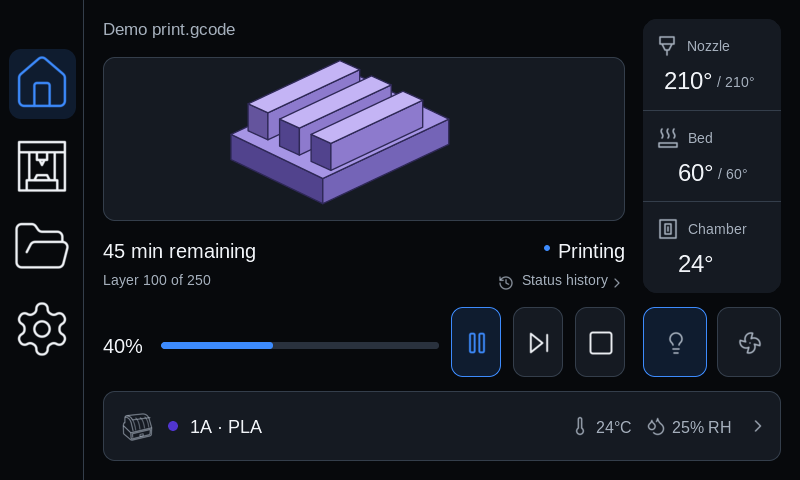
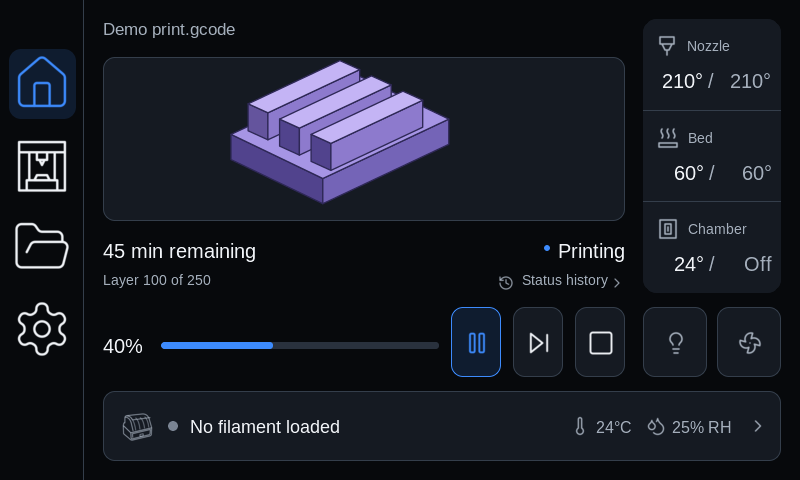
Align home temperatures and distinguish filament feeding state

diff --git a/touchscreen/src/views.c b/touchscreen/src/views.c
@@ -107,6 +107,16 @@ static void spool_widget(lv_obj_t *parent, int x, int y, int size, const char *h
     lv_obj_set_style_border_width(inner, 2, 0);
     lv_obj_set_style_border_color(inner, ring, 0);
 }
+/* The extruder sensor confirms the path; spool presence is a separate state.
+ * An old active_slot after unloading must never imply filament in the nozzle. */
+static bool feeding_slot(const char *slot) {
+    if (!B("status.filament_switch_sensor filament_sensor.filament_detected"))
+        return false;
+    const char *active = S("status.k2_cfs.active_slot");
+    if (!strcmp(slot, "E"))
+        return !*active || !fitted();
+    return fitted() && B("status.k2_cfs.online") && !strcmp(slot, active);
+}
 static bool known_slot(cJSON *rec) {
     const char *slot = jstr(rec, "slot", "");
     const char *hex = jstr(rec, "color", "");
@@ -190,12 +200,13 @@ void view_home(void) {
         lv_obj_set_style_border_side(tile, LV_BORDER_SIDE_TOP, 0);
         icon(tile, i == 0 ? "nozzle" : i == 1 ? "bed" : "chamber", 12, 15, 24, colour("a4aebb"));
         text(tile, jstr(heater, "label", ""), 44, 17, 82, &font_ui_14, true);
-        app.current[i] = text(tile, "", 12, 45, 58, &font_ui_24, false);
+        app.current[i] = text(tile, "", 8, 48, 52, &font_ui_20, false);
         right(app.current[i]);
-        app.target[i] = text(tile, "", 74, 53, 52, &font_ui_14, true);
+        centered(text(tile, "/", 62, 48, 12, &font_ui_20, true));
+        app.target[i] = text(tile, "", 78, 48, 50, &font_ui_20, true);
+        right(app.target[i]);
     }
-    lv_obj_t *light = button(app.content, "", 540, 307, 64, 70, "{\"action\":\"light\"}",
-                             B("status.output_pin chamber_led.value"));
+    lv_obj_t *light = button(app.content, "", 540, 307, 64, 70, "{\"action\":\"light\"}", false);
     const char *light_path =
         S(B("status.output_pin chamber_led.value") ? "platform.icons.light_on"
                                                    : "platform.icons.light_off");
@@ -212,10 +223,11 @@ void view_home(void) {
     if (fitted()) {
         lv_obj_t *strip = button(app.content, "", 0, 391, 678, 70, "home_filament_strip", false);
         const char *active = S("status.k2_cfs.active_slot");
+        if (!feeding_slot(active))
+            active = "";
         cJSON *rec = slot_record(*active ? active : "E");
         char label[150];
-        bool external =
-            !*active && B("status.filament_switch_sensor filament_sensor.filament_detected");
+        bool external = feeding_slot("E");
         const char *name = *active    ? slot_label(active)
                            : external ? "Spool holder"
                                       : "No filament loaded";
@@ -281,7 +293,7 @@ void views_refresh(void) {
                              !strcmp(jstr(heater, "key", ""), "chamber") ? "No target set"
                                                                          : "Heater off");
             } else
-                snprintf(value, sizeof(value), target ? "/ %.0f°" : "", target);
+                snprintf(value, sizeof(value), target ? "%.0f°" : "Off", target);
             lv_label_set_text(app.target[i], value);
         }
         if (app.positions[i]) {
@@ -528,7 +540,8 @@ static void fans_view(void) {
 }
 static void filament_view(void) {
     ui_tabs(false, "filament");
-    if (ui_unavailable("Filament controls", "loading, retracting or editing filament"))
+    if ((!app.connected || strcmp(S("status.webhooks.state"), "ready")) &&
+        ui_unavailable("Filament controls", "loading, retracting or editing filament"))
         return;
     if (fitted() && !B("status.k2_cfs.online")) {
         center_message("CFS connection lost",
@@ -548,6 +561,8 @@ static void filament_view(void) {
         text(tile, name, start + 90, 93, metrics.x + 2, &font_ui_24, false);
         centered(text(tile, "Spool holder", start + 90, 135, metrics.x + 2, &font_ui_14, true));
         icon(tile, "chevron-right", start + group_width - 16, 115, 16, colour("a4aebb"));
+        if (feeding_slot("E"))
+            icon(tile, "nozzle", (673 - 24) / 2, 200, 24, colour("f0f3f7"));
         lv_obj_t *line = box(app.content, 0, 388, 678, 1, false);
         lv_obj_set_style_radius(line, 0, 0);
         lv_obj_set_style_bg_color(line, colour("343e4b"), 0);
@@ -620,7 +635,7 @@ static void filament_view(void) {
         snprintf(display_slot, sizeof(display_slot), "%s",
                  !strcmp(slot, "E") ? "Spool holder" : slot_label(slot));
         centered(text(tile, display_slot, 4, 15, width - 8, &font_ui_17, false));
-        bool present = !strcmp(slot, "E") || jbool(r, "loaded", false);
+        bool present = !strcmp(slot, "E") ? feeding_slot("E") : jbool(r, "loaded", false);
         const char *hex = present ? jstr(r, "color", "828b98") : "343e4b";
         lv_color_t ring = colour(hex);
         if (ring.ch.red < 25 && ring.ch.green < 25 && ring.ch.blue < 25)
@@ -644,6 +659,8 @@ static void filament_view(void) {
                       : present            ? "Unknown"
                                            : "Empty",
                       4, 126, width - 8, &font_ui_16, false));
+        if (feeding_slot(slot))
+            icon(tile, "nozzle", (width - 24) / 2, 165, 24, colour("f0f3f7"));
     }
 
     if (fitted()) {

diff --git a/touchscreen/tests/test_home_filament_state.py b/touchscreen/tests/test_home_filament_state.py
@@ -1,0 +1,70 @@
+"""Render real widgets to distinguish filament presence, selection and targets."""
+
+import copy
+import unittest
+
+import action_policy
+import test_native_ui
+from PIL import Image, ImageChops
+
+
+class HomeFilamentStateTests(unittest.TestCase):
+    setUp = test_native_ui.NativeUI.setUp
+    render = test_native_ui.NativeUI.render
+
+    def frame(self, page, data):
+        self.render(page, data=data)
+        return Image.open(self.path / "screen.ppm").copy()
+
+    def test_nozzle_marker_follows_sensor_not_selected_spool(self):
+        loaded = copy.deepcopy(self.data)
+        loaded["status"]["k2_cfs"]["active_slot"] = "D"
+        empty = copy.deepcopy(loaded)
+        empty["status"]["filament_switch_sensor filament_sensor"][
+            "filament_detected"
+        ] = False
+        before = self.frame("filament", empty)
+        after = self.frame("filament", loaded)
+        # D feeds the nozzle even when a different spool is selected for editing.
+        self.assertIsNotNone(
+            ImageChops.difference(before, after).crop((497, 278, 617, 308)).getbbox()
+        )
+        self.assertIsNone(
+            ImageChops.difference(before, after).crop((104, 278, 224, 308)).getbbox()
+        )
+
+    def test_filament_overview_remains_visible_during_print(self):
+        data = copy.deepcopy(self.data)
+        data["status"]["print_stats"]["state"] = "printing"
+        data["availability"] = action_policy.availability(data["status"], True, [])
+        items, _ = self.render("filament", data=data)
+        self.assertTrue(any(i["action"] == "slot:D" for i in items))
+        for action in ("load", "unload", "edit_slot"):
+            self.assertFalse(next(i for i in items if i["action"] == action)["enabled"])
+
+    def test_light_state_changes_icon_without_selected_background(self):
+        on = copy.deepcopy(self.data)
+        off = copy.deepcopy(on)
+        off["status"]["output_pin chamber_led"]["value"] = 0
+        a = self.frame("home", on)
+        b = self.frame("home", off)
+        self.assertEqual(a.getpixel((650, 320)), b.getpixel((650, 320)))
+        self.assertIsNotNone(
+            ImageChops.difference(a, b).crop((660, 325, 695, 360)).getbbox()
+        )
+
+    def test_three_digit_current_and_target_share_right_edges_and_baseline(self):
+        data = copy.deepcopy(self.data)
+        for h in data["heaters"]:
+            h.update(current=350, target=350)
+        image = self.frame("home", data)
+        # Compare identical glyphs in both columns for every heater.
+        for y in (67, 158, 249):
+            current = image.crop((651, y, 703, y + 30))
+            target = image.crop((719, y, 771, y + 30))
+
+            def ink_bounds(crop):
+                mask = crop.convert("L").point(lambda v: 255 if v > 100 else 0)
+                return mask.getbbox()
+
+            self.assertEqual(ink_bounds(current), ink_bounds(target))
